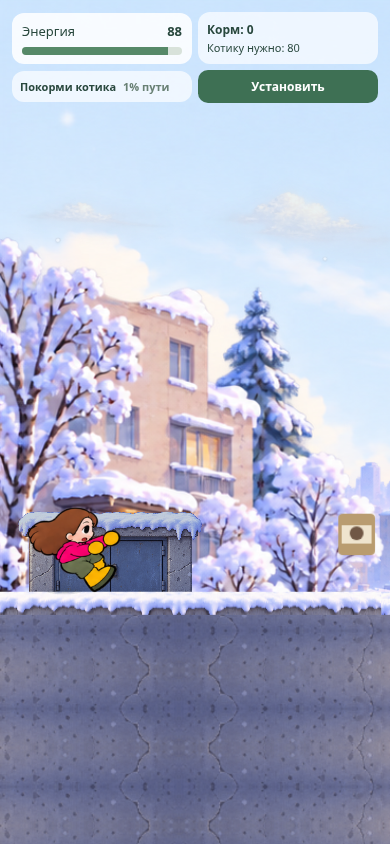
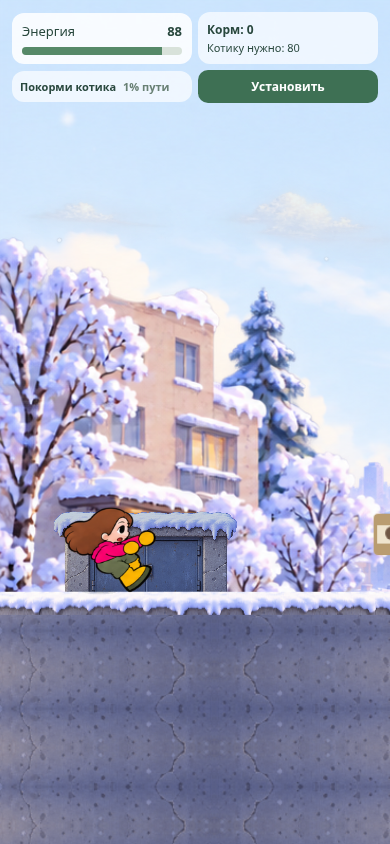
Reuse bump reaction for pigeons and keep Tanya inside portrait frame

diff --git a/src/main.ts b/src/main.ts
@@ -335,10 +335,14 @@ class PlayScene extends Phaser.Scene {
     const camera = this.cameras.main;
     const framing = this.framing!;
     const viewWidth = camera.width / camera.zoom;
-    // Frame the occupied bench fully during rest; normal autorun framing is unchanged.
-    const anchorX = this.restRemaining > 0 ? Math.max(framing.anchorX, .25) : framing.anchorX;
+    // Keep opaque art (including recoil/hair) inside the frame at every speed.
+    // The old 5% portrait anchor clipped Tanya when follow lag shrank on slowing.
+    const safeInset = this.tanyaVisual?.cameraLeftInset ?? 0;
+    const anchorX = Math.max(framing.anchorX, safeInset / viewWidth, this.restRemaining > 0 ? .25 : 0);
     const target = Phaser.Math.Clamp(this.tanya.x - viewWidth * anchorX, 0, Math.max(0, s.levelWidth - viewWidth));
     camera.scrollX = Phaser.Math.Linear(camera.scrollX, target, 1 - Math.exp(-dt * framing.followX));
+    // A sudden slowdown/resize must not leave the camera ahead of the sprite.
+    camera.scrollX = Math.min(camera.scrollX, Math.max(0, body.center.x - safeInset));
     // Небольшое вертикальное смещение сохраняет нижнюю страховочную дорожку в кадре.
     const targetY = framing.baseY + Phaser.Math.Clamp((this.tanya.y - (s.floorY - 24)) * .22, -40, 0);
     camera.scrollY = Phaser.Math.Linear(camera.scrollY, targetY, 1 - Math.exp(-dt * 2.8));
@@ -457,7 +461,8 @@ class PlayScene extends Phaser.Scene {
     this.tanya.setTexture('tanya').setAlpha(1);
     this.recoveries++; controls.reset();
     const camera=this.cameras.main,f=this.framing!;
-    camera.scrollX=Phaser.Math.Clamp(this.checkpoint-camera.width/camera.zoom*f.anchorX,0,s.levelWidth-camera.width/camera.zoom);
+    const inset=Math.max(camera.width/camera.zoom*f.anchorX,this.tanyaVisual?.cameraLeftInset ?? 0);
+    camera.scrollX=Phaser.Math.Clamp(this.checkpoint-inset,0,s.levelWidth-camera.width/camera.zoom);
     camera.scrollY=f.baseY+Phaser.Math.Clamp((this.tanya.y-(s.floorY-24))*.22,-40,0);
     message('Снова бежим!',900);
   }
@@ -581,7 +586,7 @@ class PlayScene extends Phaser.Scene {
     for (const flock of this.pigeons) {
       // Visible birds remain dangerous while flying. No invisible rectangular
       // flock and no timer that silently turns still-visible birds harmless.
-      if (touchesDanger(player, flock.sprite, 'pigeons') && this.hit(s.pigeonDamage)) {
+      if (touchesDanger(player, flock.sprite, 'pigeons') && this.hit(s.pigeonDamage, 'granny')) {
         this.cameras.main.shake(160, .004);
       }
     }

diff --git a/src/tanya-visual.ts b/src/tanya-visual.ts
@@ -59,6 +59,8 @@ export class TanyaVisual {
   }
 
   readonly sprite: Phaser.GameObjects.Sprite;
+  /** Opaque art extent, not the padded frame/collider. Includes all reactions. */
+  readonly cameraLeftInset: number;
   readonly footShadow: Phaser.GameObjects.Ellipse;
   readonly contactShadow: Phaser.GameObjects.Ellipse;
   state: TanyaVisualState = 'idle';
@@ -77,6 +79,9 @@ export class TanyaVisual {
 
   constructor(private scene: Phaser.Scene, private carrier: Phaser.Physics.Arcade.Sprite, private context: TanyaVisualContext) {
     TanyaVisual.prepare(scene);
+    const scale = tanyaArt.renderedHeight / tanyaArt.referenceHeight;
+    this.cameraLeftInset = Math.max(...[tanyaArt, tanyaContextArt].flatMap(art =>
+      (scene.cache.json.get(art.dataKey) as AnimationData).frames.map(f => f.rootX * f.normalize * scale))) + 8;
     this.pitMaskShape = scene.add.graphics().setVisible(false);
     this.pitMask = this.pitMaskShape.createGeometryMask();
     this.footShadow = scene.add.ellipse(0, 0, 30.8, 5.5, 0x36465b).setData('tanyaFootShadow', true);

diff --git a/docs/tanya/contextual-integration.md b/docs/tanya/contextual-integration.md
@@ -142,3 +142,11 @@ Checks: new `scripts/check-tanya-context.mjs`, updated `scripts/check-tanya.mjs`
 `scripts/check-tanya-production.mjs`, `scripts/validate-recovery.mjs` and
 `scripts/audit-v3.mjs` (preserves hazard kind when recording actual hits).
 Updated audit/design docs and portrait evidence; other art is unchanged.
+
+## Pigeon reaction and viewport clipping fix
+
+Pigeon damage now reuses `tanya-hit-granny` through the same accepted-hit path and existing shared cooldown. Damage, physics, layout and sprite size are unchanged.
+
+The portrait camera's original 5% anchor left only 17 world pixels behind the character. Opaque run/fall/recoil frames extend up to 53.12 pixels left of the foot anchor. Follow lag hid this at full speed but exposed clipping when speed fell after a scooter hit or exhaustion. The camera now reserves the maximum measured left extent across both atlases plus 8 world pixels (61.12 total), retains smooth tracking, and prevents stale camera scroll from overtaking the safe frame after slowing. Checkpoint framing uses the same inset. The 8px margin also accommodates the current camera shake.
+
+`npm run test:character:framing` checks actual pigeon contact, shared cooldown, normal/scooter-slowed/zero-energy framing and immediate checkpoint framing at 320×568, 390×844 and 430×932. Existing contextual interaction checks remain applicable. No new art or gameplay rules were introduced.
